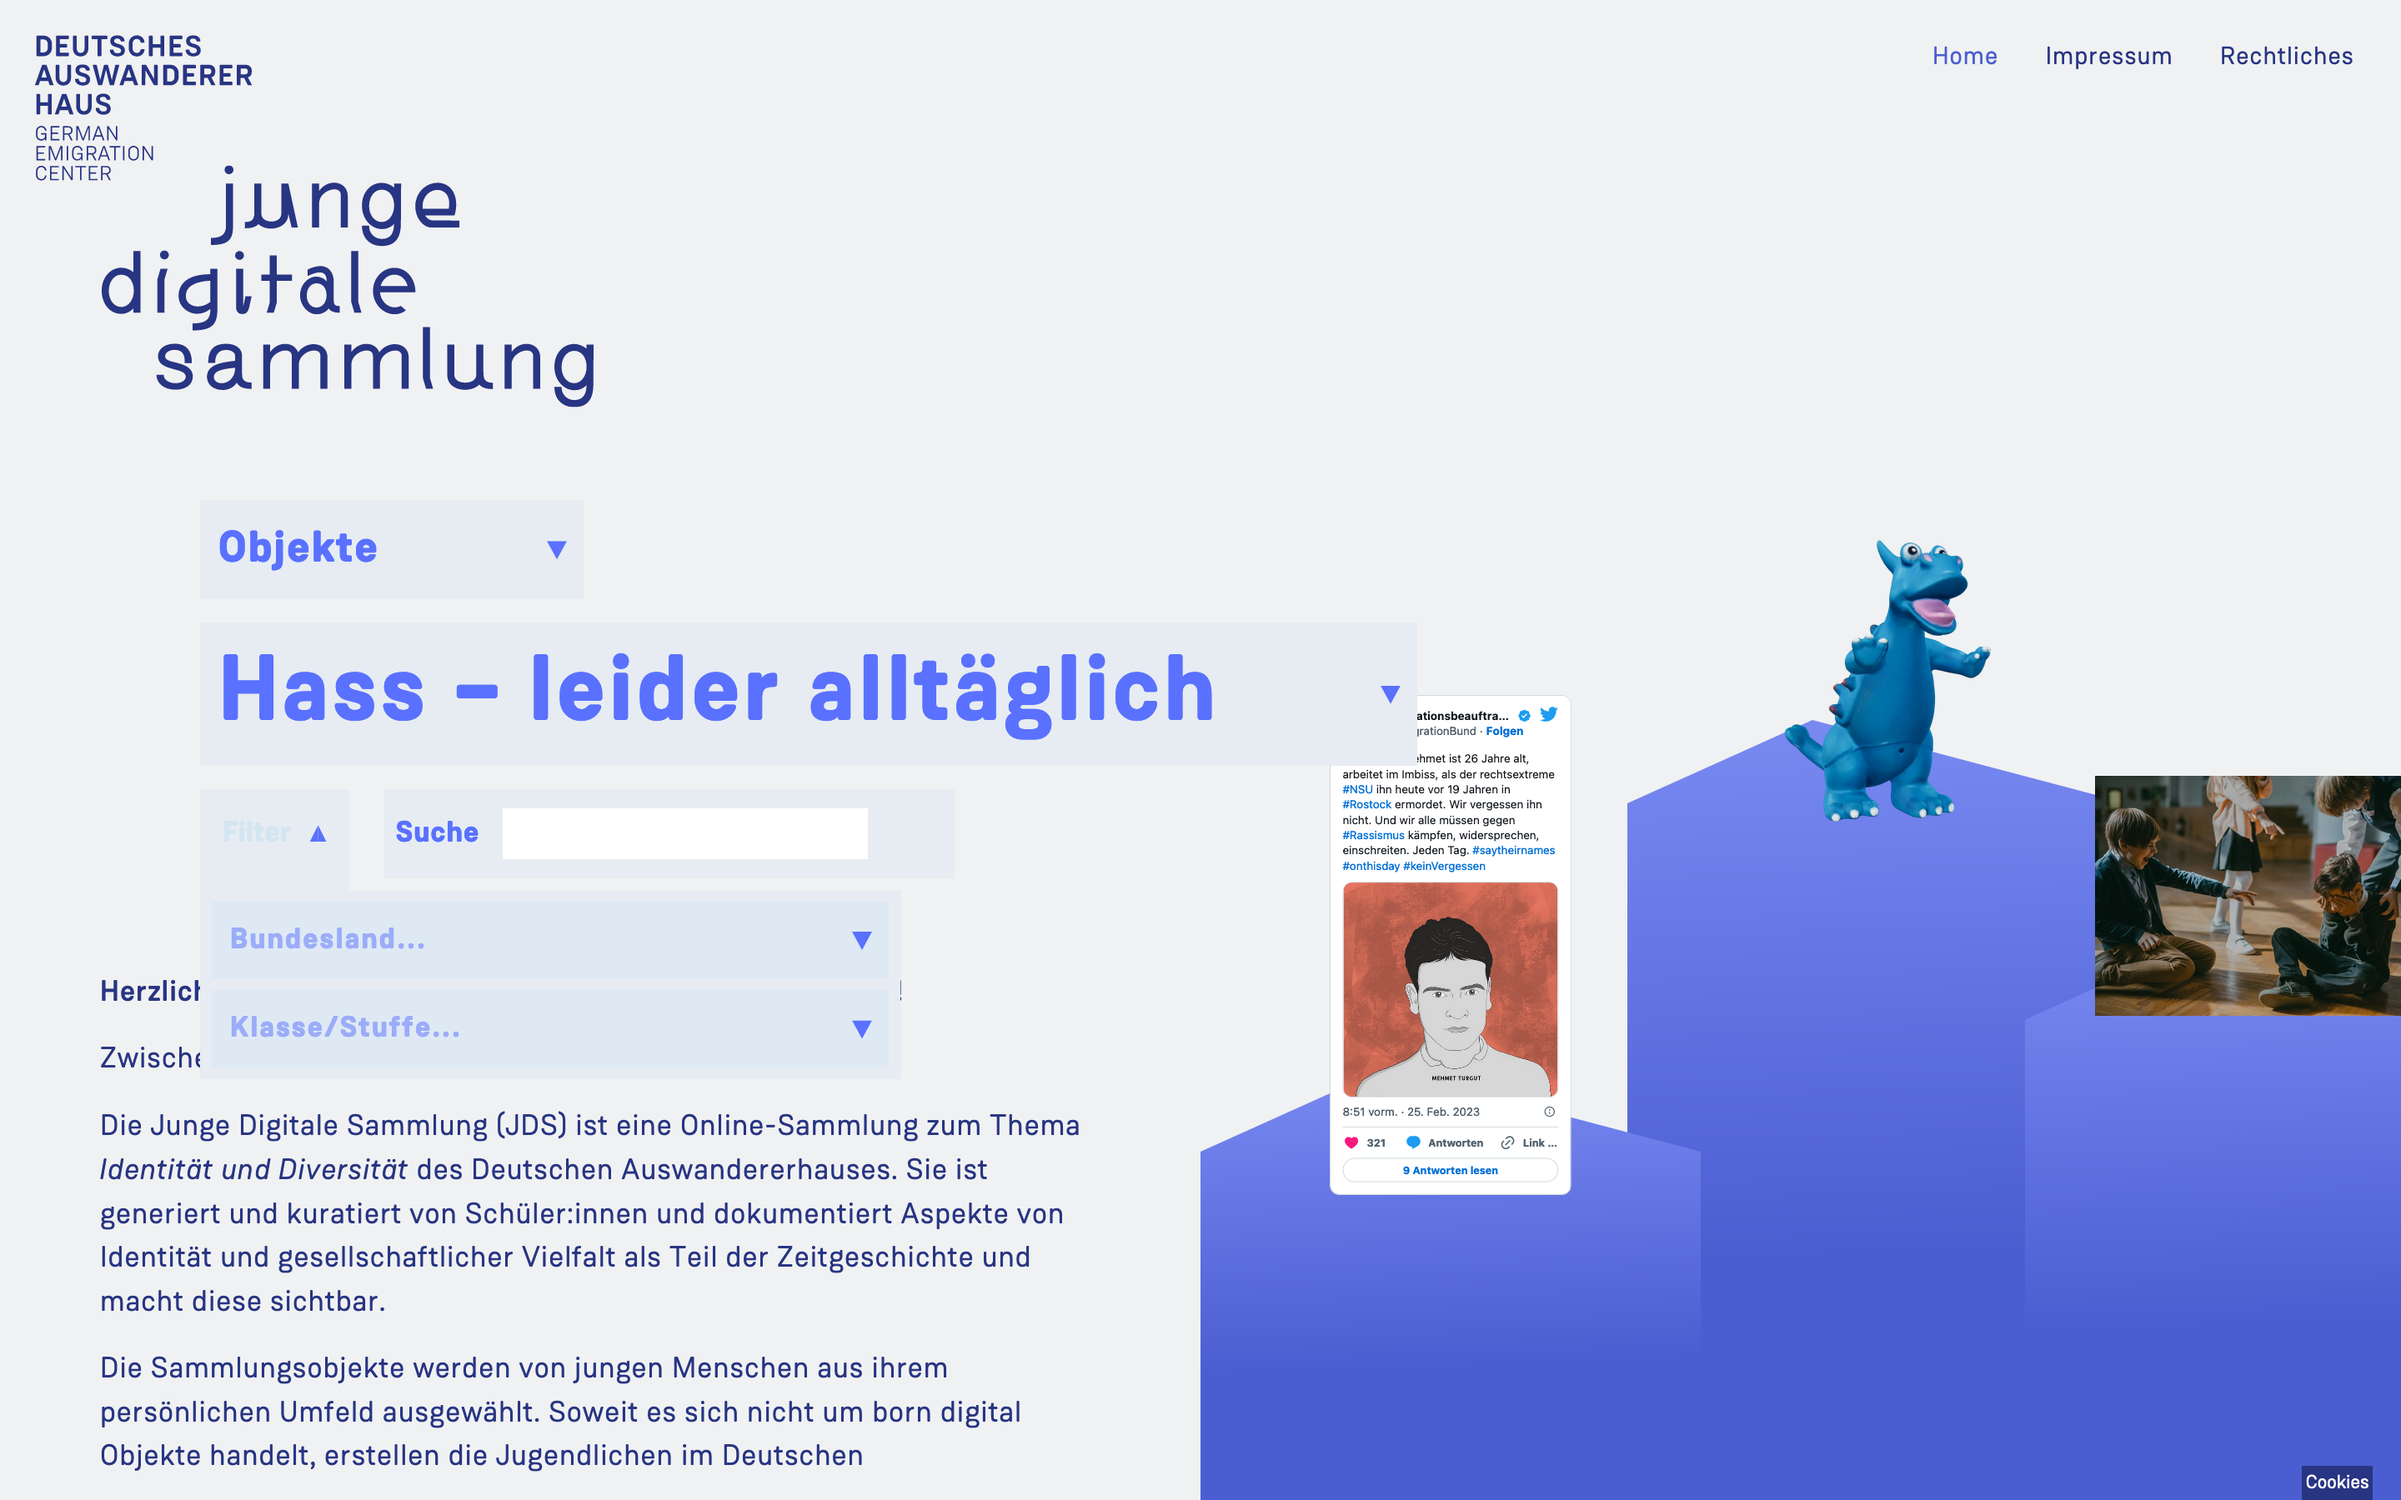
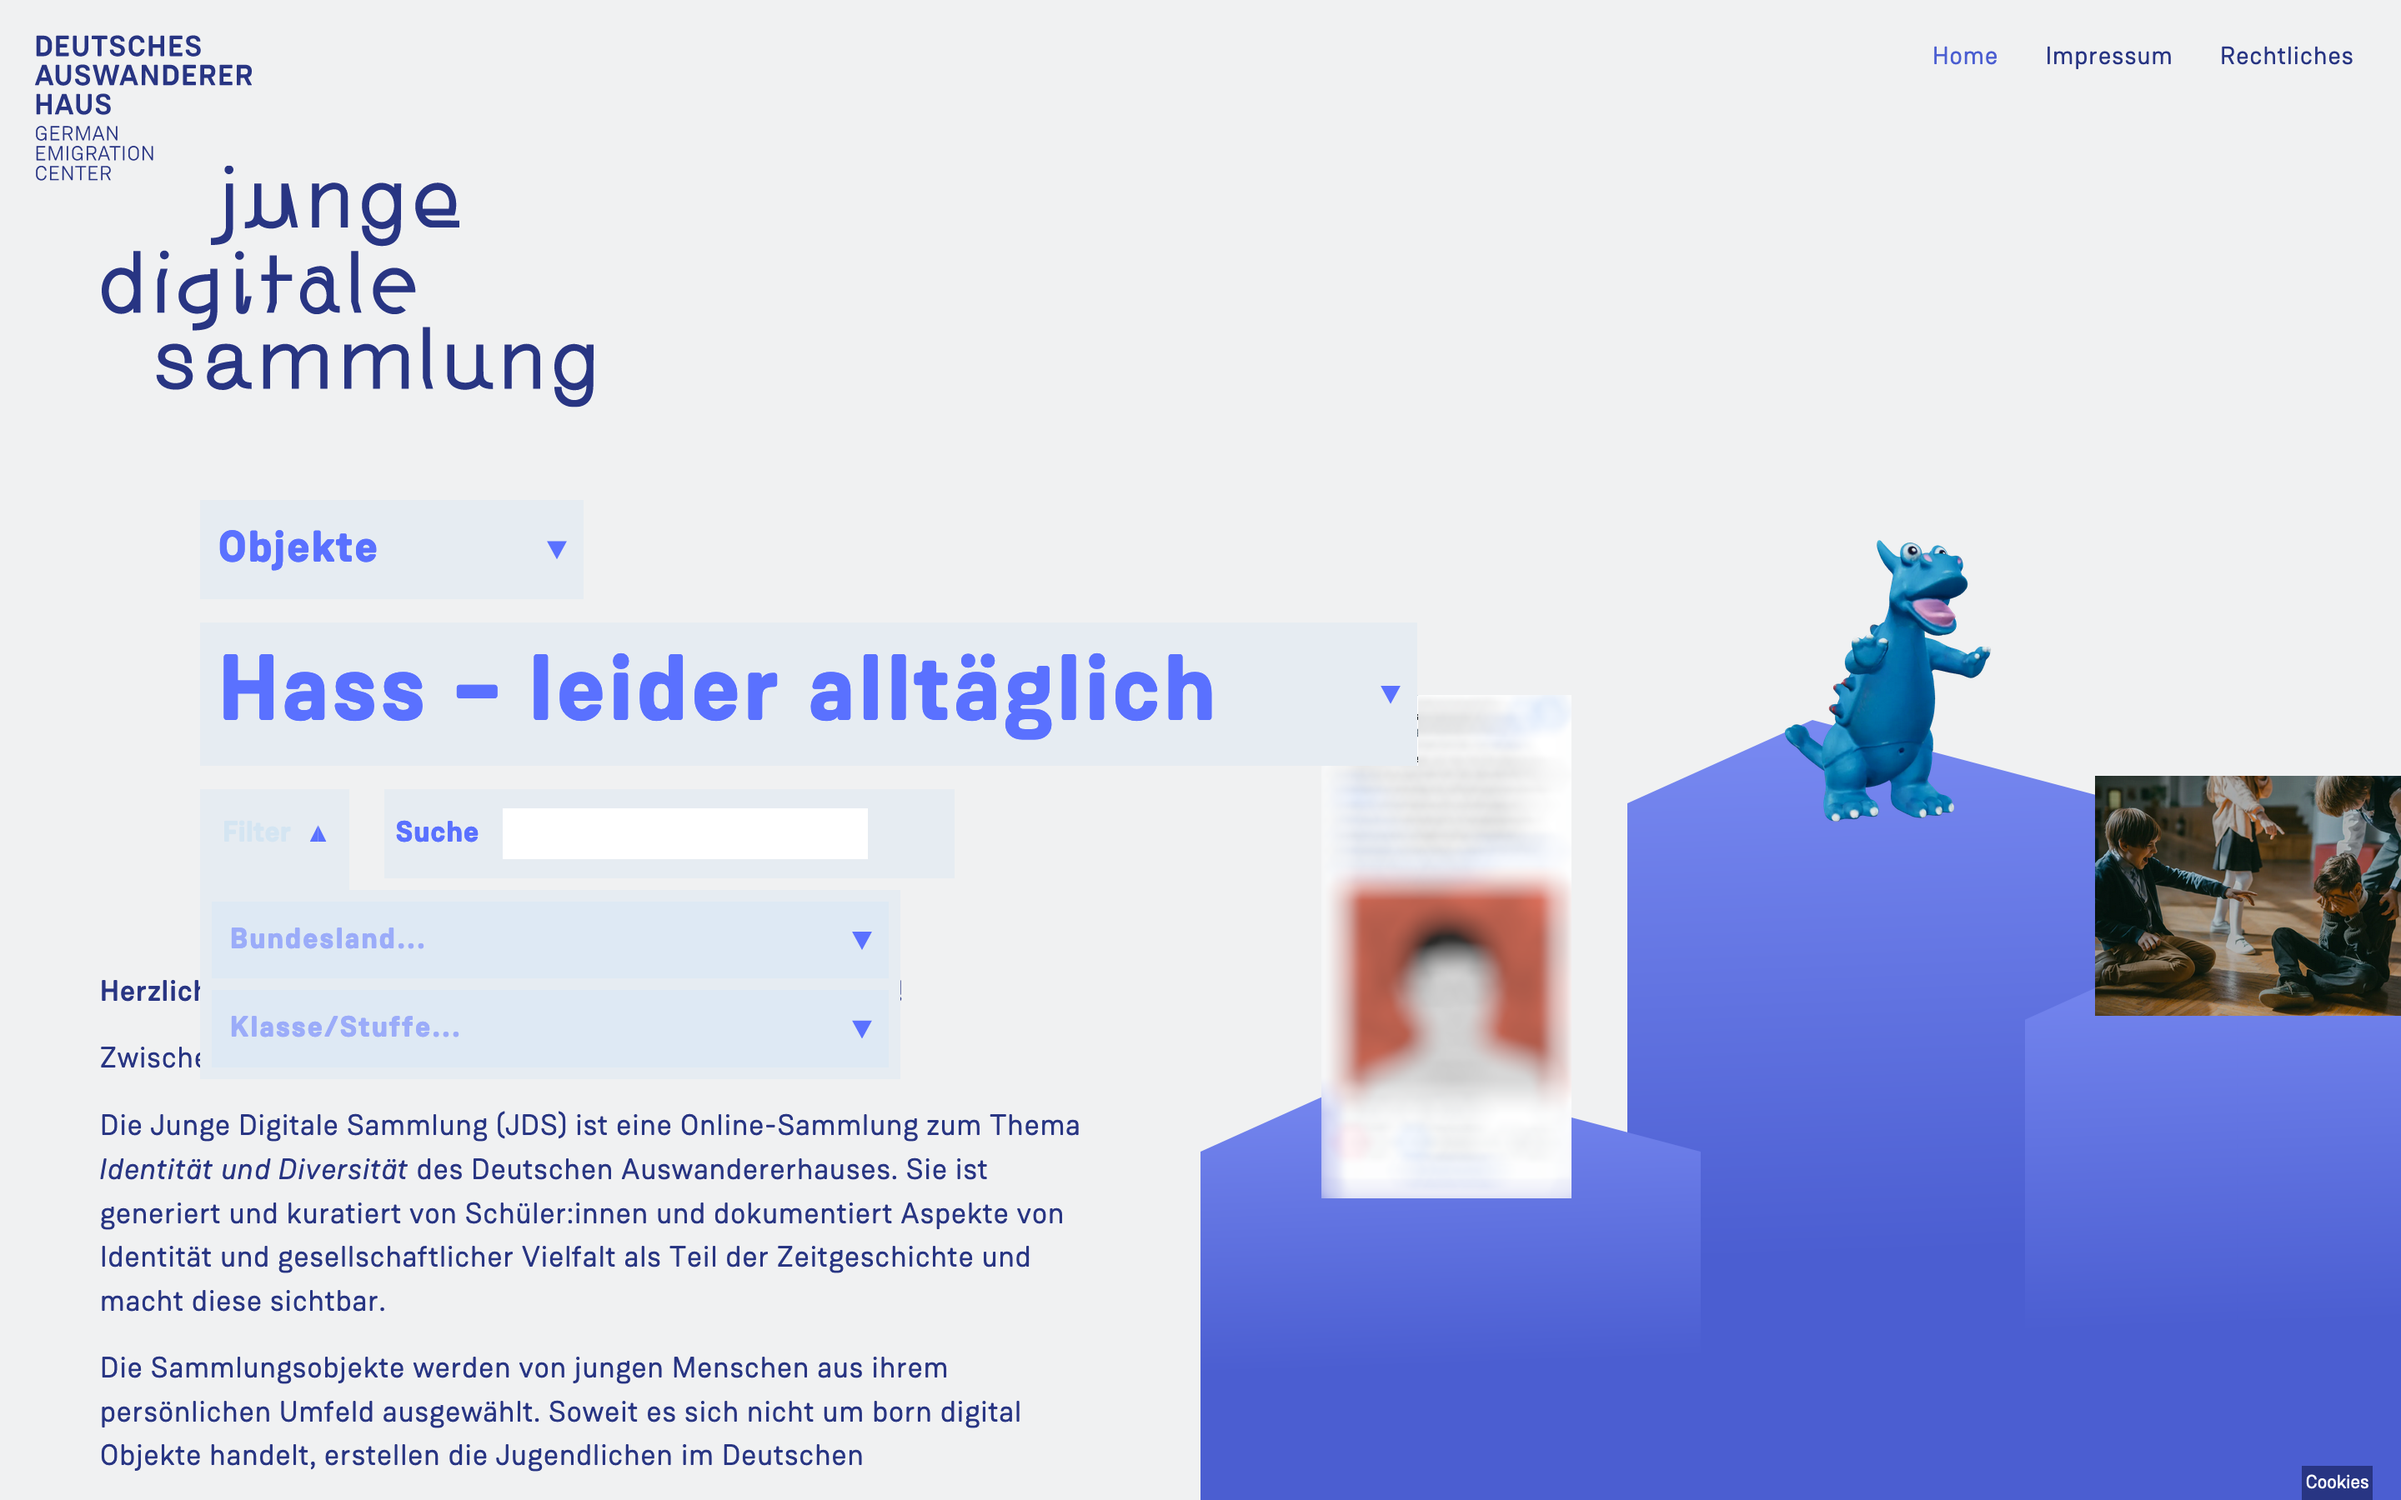
read me and docs

Changed region(s): [[0.5312, 0.4667, 0.6562, 0.8089]]

diff --git a/docs/README.md b/docs/README.md
@@ -1,6 +1,6 @@
 # Benutzung
 
- *(Screenshots können abweichen. Screenshots enthalten Testdaten)*
+ *(Screenshots können abweichen. Screenshots enthalten Testdaten. Manche Bereiche wurden aus Copyright Gründen )*
 
 ## Inhaltsverzeichnis
 
